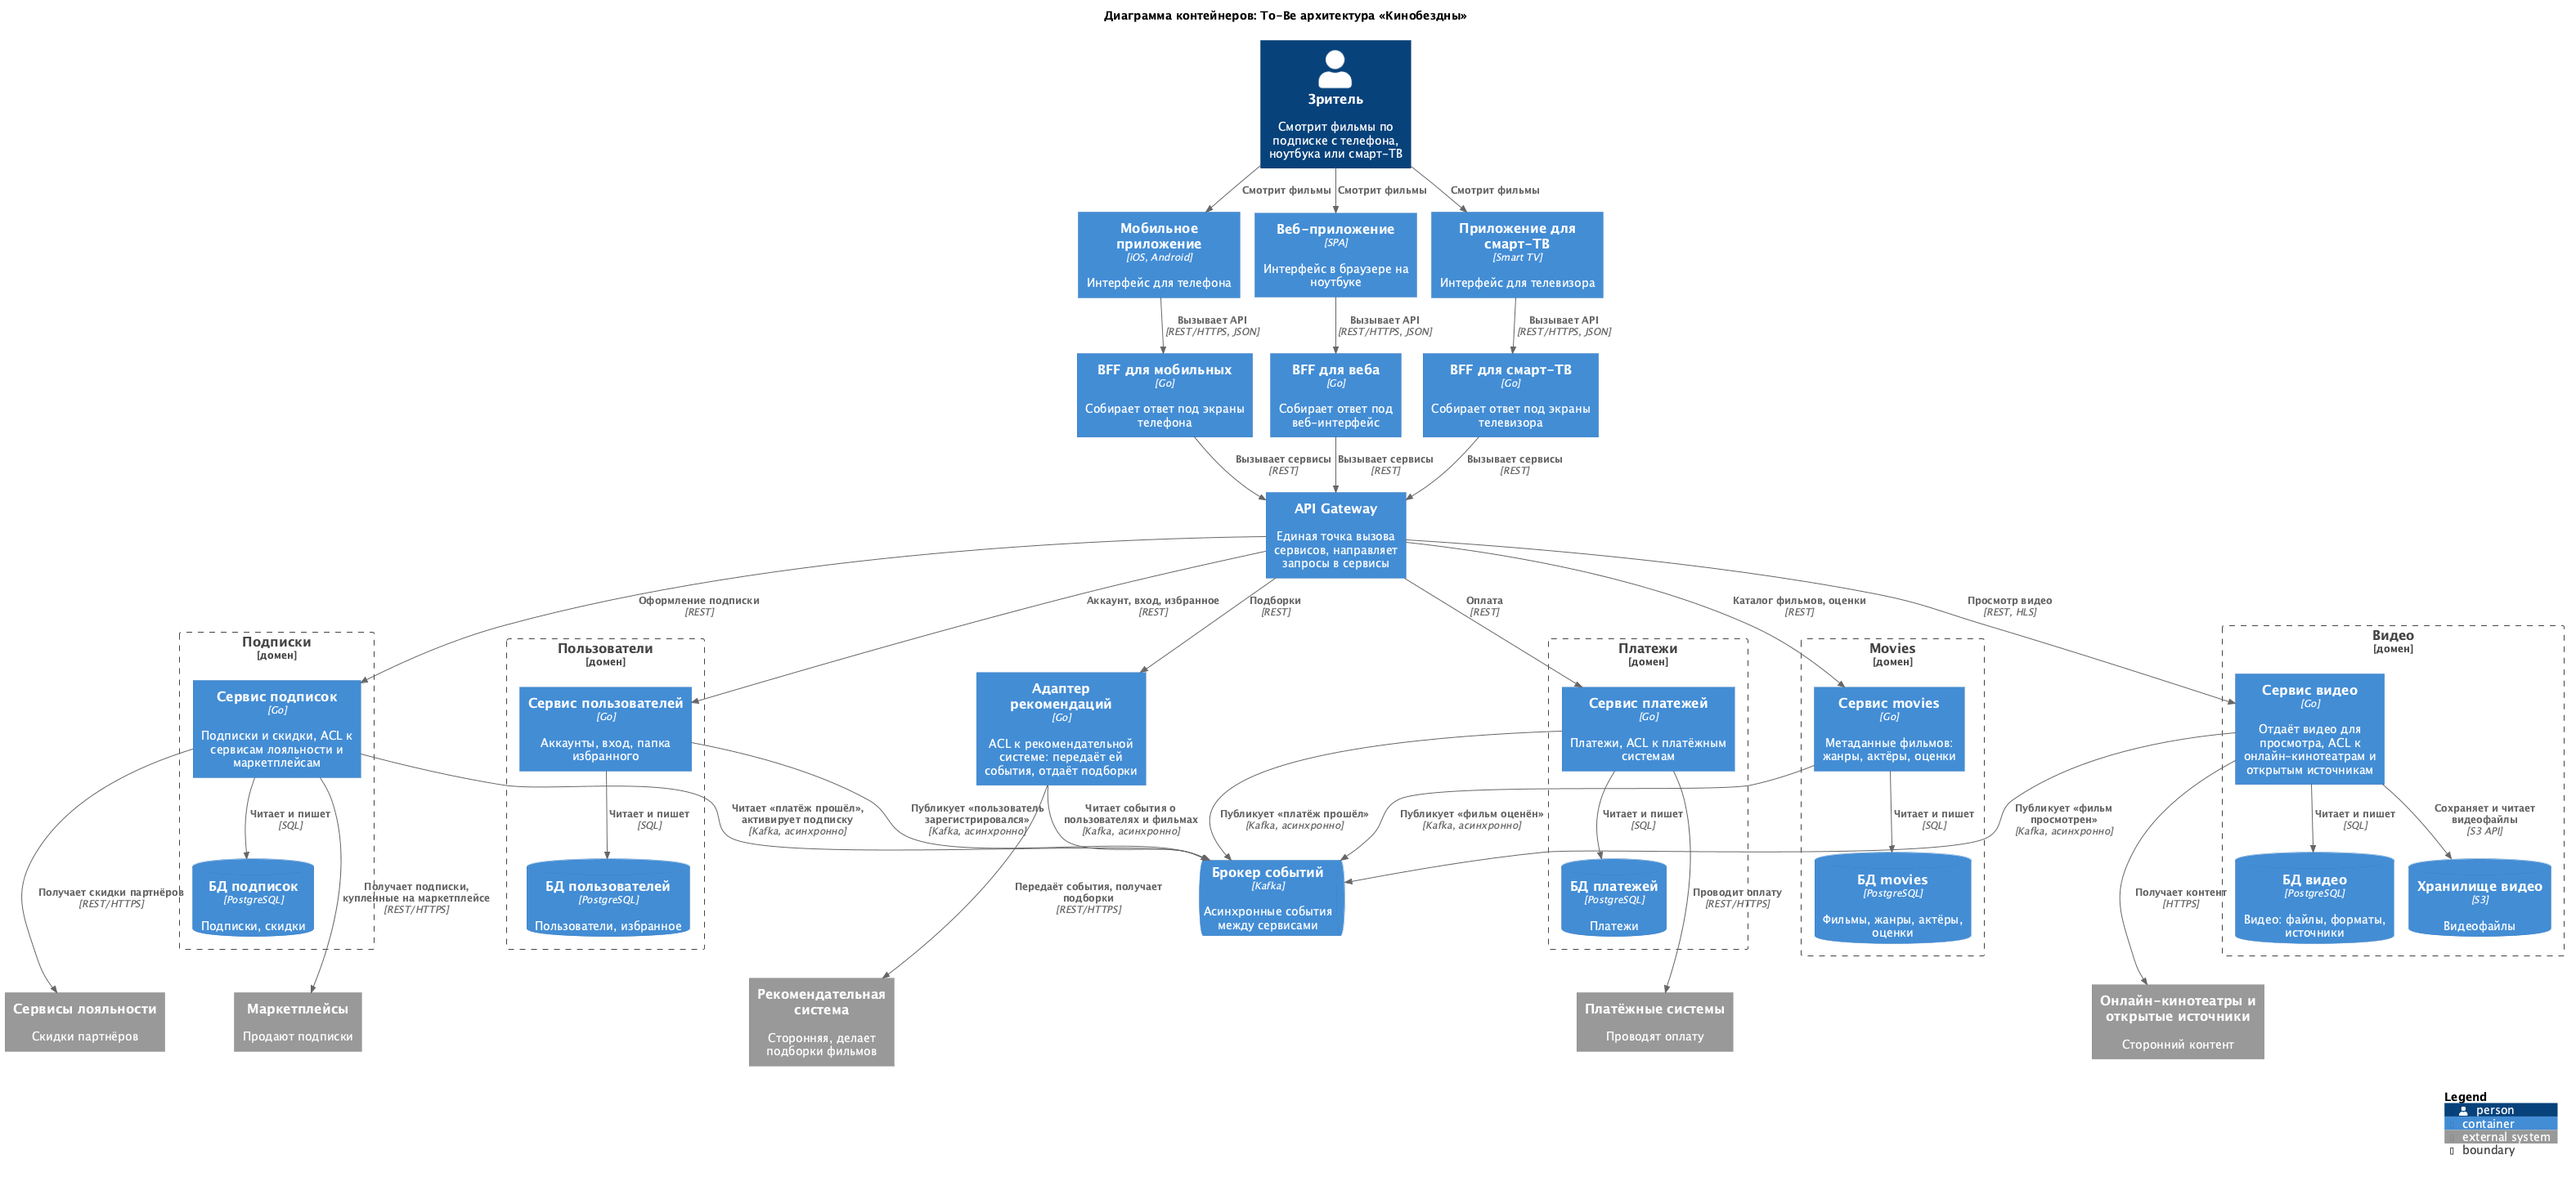
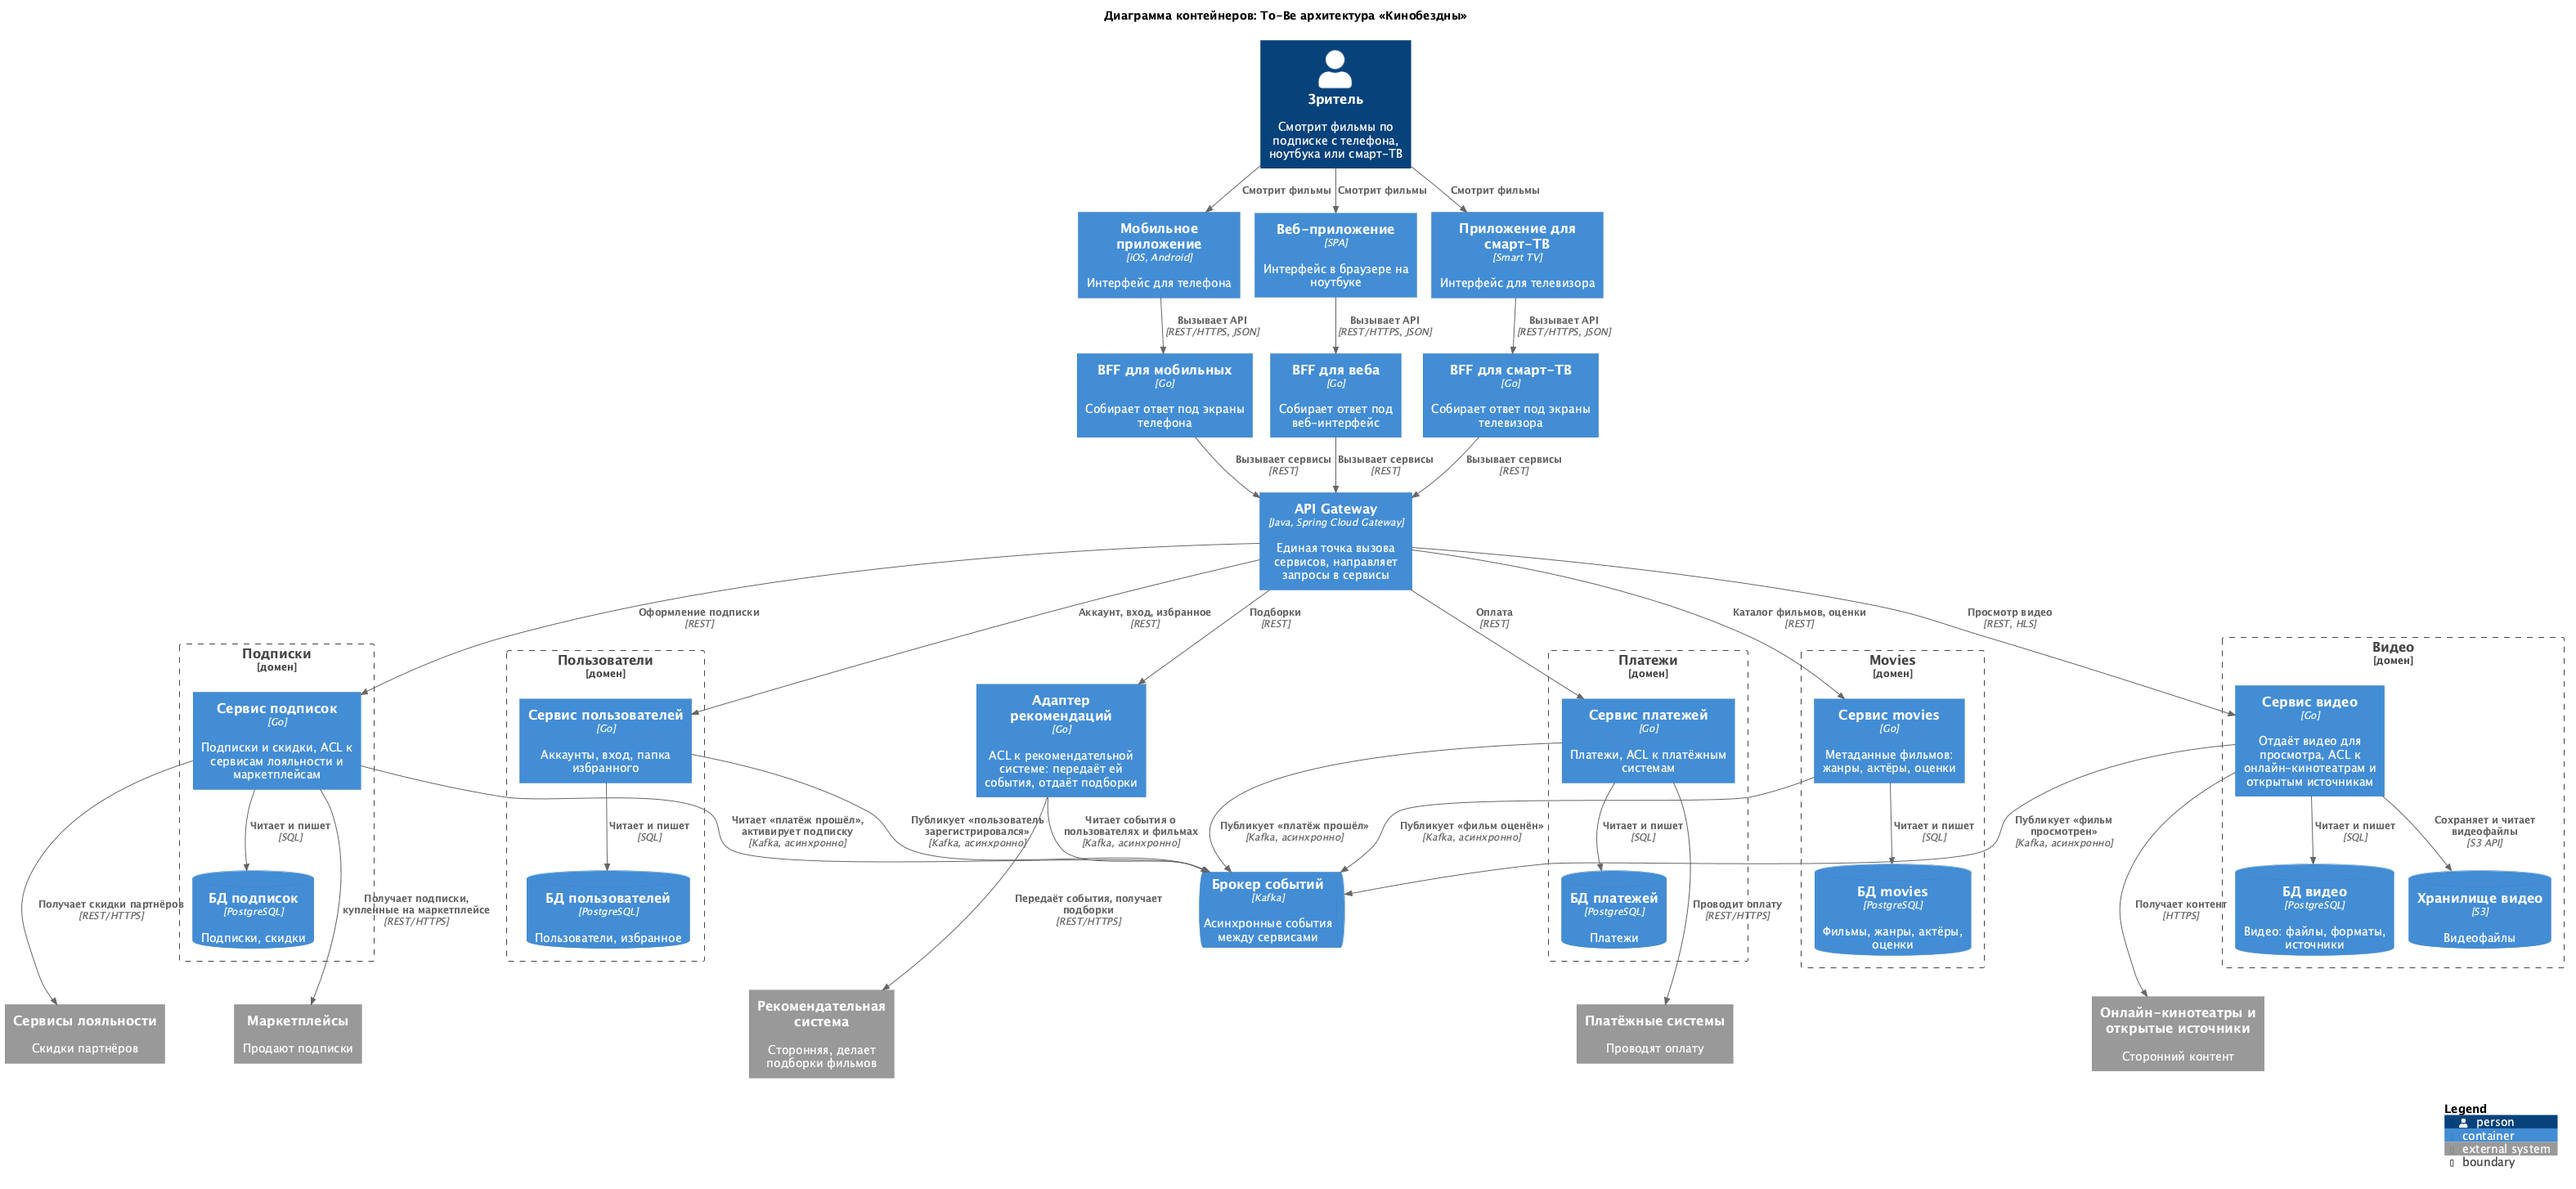
Задание 2. Реализация прокси-сервиса. Часть 1. Реализация сервиса

diff --git a/src/microservices/proxy/src/main/java/com/cinemaabyss/proxy/predicate/MigrationPercentRoutePredicateFactory.java b/src/microservices/proxy/src/main/java/com/cinemaabyss/proxy/predicate/MigrationPercentRoutePredicateFactory.java
@@ -1,0 +1,33 @@
+package com.cinemaabyss.proxy.predicate;
+
+import jakarta.validation.constraints.Max;
+import jakarta.validation.constraints.Min;
+import java.util.concurrent.ThreadLocalRandom;
+import java.util.function.Predicate;
+import org.springframework.cloud.gateway.handler.predicate.AbstractRoutePredicateFactory;
+import org.springframework.stereotype.Component;
+import org.springframework.web.server.ServerWebExchange;
+
+/**
+ * Strangler Fig feature flag as a route predicate, used in application.yml as {@code MigrationPercent}.
+ * It matches the given percent of requests, chosen at random; requests that do not match
+ * fall through to the next route. With gradual migration off the migration is complete,
+ * so every request matches.
+ */
+@Component
+public class MigrationPercentRoutePredicateFactory
+        extends AbstractRoutePredicateFactory<MigrationPercentRoutePredicateFactory.Config> {
+
+    public MigrationPercentRoutePredicateFactory() {
+        super(Config.class);
+    }
+
+    @Override
+    public Predicate<ServerWebExchange> apply(Config config) {
+        return exchange -> !config.gradualMigration()
+                || ThreadLocalRandom.current().nextInt(100) < config.percent();
+    }
+
+    public record Config(boolean gradualMigration, @Min(0) @Max(100) int percent) {
+    }
+}

diff --git a/src/microservices/proxy/src/main/java/com/cinemaabyss/proxy/filter/RouteLoggingFilter.java b/src/microservices/proxy/src/main/java/com/cinemaabyss/proxy/filter/RouteLoggingFilter.java
@@ -1,0 +1,29 @@
+package com.cinemaabyss.proxy.filter;
+
+import org.slf4j.Logger;
+import org.slf4j.LoggerFactory;
+import org.springframework.cloud.gateway.filter.GatewayFilterChain;
+import org.springframework.cloud.gateway.filter.GlobalFilter;
+import org.springframework.cloud.gateway.route.Route;
+import org.springframework.cloud.gateway.support.ServerWebExchangeUtils;
+import org.springframework.stereotype.Component;
+import org.springframework.web.server.ServerWebExchange;
+import reactor.core.publisher.Mono;
+
+/**
+ * Logs where each request is routed, so the traffic split between the monolith and the microservices
+ * is visible in the proxy logs.
+ */
+@Component
+public class RouteLoggingFilter implements GlobalFilter {
+
+    private static final Logger log = LoggerFactory.getLogger(RouteLoggingFilter.class);
+
+    @Override
+    public Mono<Void> filter(ServerWebExchange exchange, GatewayFilterChain chain) {
+        var route = exchange.<Route>getAttribute(ServerWebExchangeUtils.GATEWAY_ROUTE_ATTR);
+        var request = exchange.getRequest();
+        log.info("{} {} -> {} ({})", request.getMethod(), request.getPath(), route.getId(), route.getUri());
+        return chain.filter(exchange);
+    }
+}

diff --git a/src/microservices/proxy/src/main/java/com/cinemaabyss/proxy/controller/HealthController.java b/src/microservices/proxy/src/main/java/com/cinemaabyss/proxy/controller/HealthController.java
@@ -1,0 +1,14 @@
+package com.cinemaabyss.proxy.controller;
+
+import org.springframework.http.MediaType;
+import org.springframework.web.bind.annotation.GetMapping;
+import org.springframework.web.bind.annotation.RestController;
+
+@RestController
+public class HealthController {
+
+    @GetMapping(path = "/health", produces = MediaType.TEXT_PLAIN_VALUE)
+    public String health() {
+        return "Strangler Fig Proxy is healthy";
+    }
+}

diff --git a/src/microservices/proxy/src/main/java/com/cinemaabyss/proxy/ProxyServiceApplication.java b/src/microservices/proxy/src/main/java/com/cinemaabyss/proxy/ProxyServiceApplication.java
@@ -1,0 +1,12 @@
+package com.cinemaabyss.proxy;
+
+import org.springframework.boot.SpringApplication;
+import org.springframework.boot.autoconfigure.SpringBootApplication;
+
+@SpringBootApplication
+public class ProxyServiceApplication {
+
+    public static void main(String[] args) {
+        SpringApplication.run(ProxyServiceApplication.class, args);
+    }
+}
